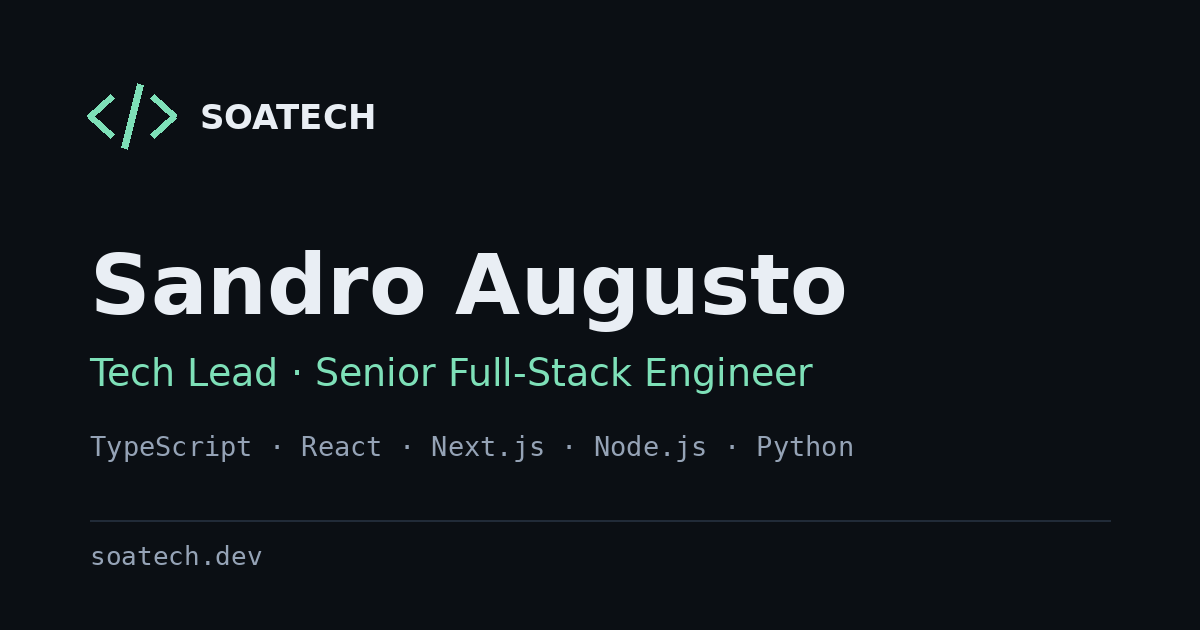
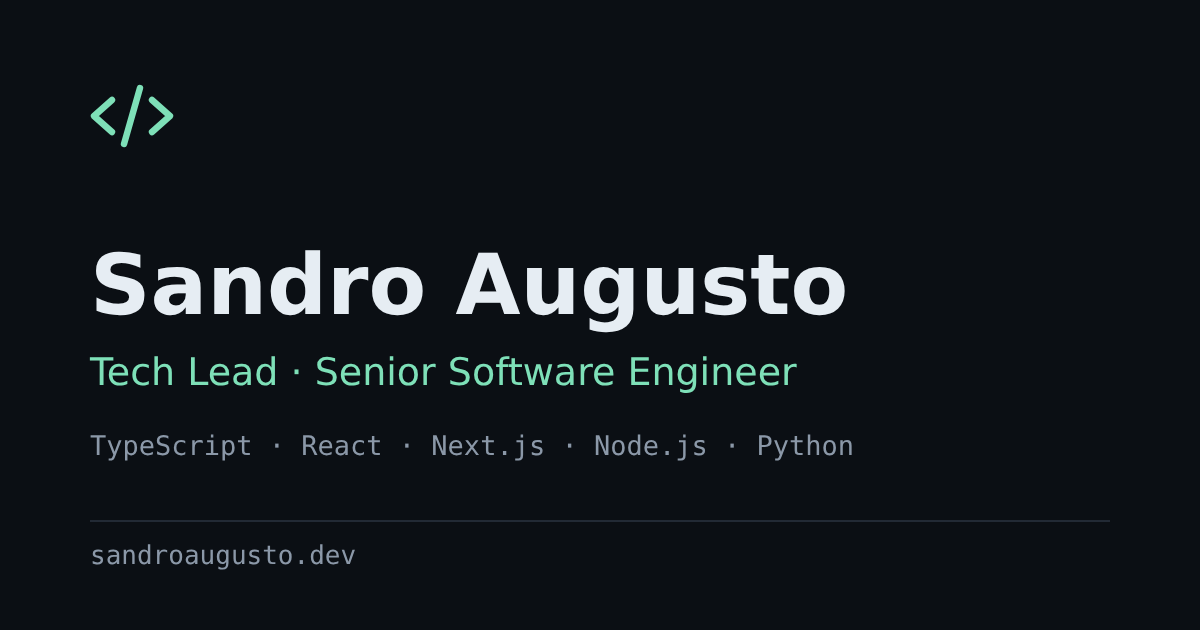
Move the site to sandroaugusto.dev
- SITE.url, canonical URLs, sitemap and Open Graph now use sandroaugusto.dev
- Header and footer show the person's name instead of the company brand;
  the legal name stays in the footer
- New share image without the company brand

Claude-Session: https://claude.ai/code/session_01RcgwB7pr3jrAkWv85aUV2o

diff --git a/src/components/ArticleShell.tsx b/src/components/ArticleShell.tsx
@@ -7,10 +7,10 @@ export function ArticleShell({ title, meta, children }: { title: string; meta: s
       <header className="site-header">
         <div className="wrap bar">
           <a className="brand" href="/">
-            {SITE.brand}
+            {SITE.person}
           </a>
           <a className="article-back" href="/#writing">
-            ← {SITE.person}
+            ← Writing
           </a>
         </div>
       </header>
@@ -25,7 +25,7 @@ export function ArticleShell({ title, meta, children }: { title: string; meta: s
       <footer className="site-footer">
         <div className="wrap footer-row">
           <span>
-            © {new Date().getFullYear()} {SITE.brand} · {SITE.legalName}
+            © {new Date().getFullYear()} {SITE.person} · {SITE.legalName}
           </span>
           <a href={SITE.repo} target="_blank" rel="noopener noreferrer">
             Source code

diff --git a/src/components/Site.tsx b/src/components/Site.tsx
@@ -68,9 +68,9 @@ export function Site({ locale }: { locale: Locale }) {
 
       <header className="site-header">
         <div className="wrap bar">
-          <a className="brand" href="#top" aria-label={SITE.brand}>
+          <a className="brand" href="#top" aria-label={SITE.person}>
             <Logo />
-            {SITE.brand}
+            {SITE.person}
           </a>
           <div className="bar-right">
             <nav>
@@ -198,7 +198,7 @@ export function Site({ locale }: { locale: Locale }) {
       <footer className="site-footer">
         <div className="wrap footer-row">
           <span>
-            © {new Date().getFullYear()} {SITE.brand} · {SITE.legalName}
+            © {new Date().getFullYear()} {SITE.person} · {SITE.legalName}
           </span>
           <a href={SITE.repo} target="_blank" rel="noopener noreferrer">
             {c.footer.source}

diff --git a/src/lib/metadata.ts b/src/lib/metadata.ts
@@ -17,11 +17,11 @@ export function buildMetadata(locale: Locale): Metadata {
     openGraph: {
       type: "website",
       url: PATHS[locale],
-      siteName: SITE.brand,
+      siteName: SITE.person,
       title: meta.title,
       description: meta.description,
       locale: OG_LOCALE[locale],
-      images: [{ url: "/og.png", width: 1200, height: 630, alt: `${SITE.person} — ${SITE.brand}` }],
+      images: [{ url: "/og.png", width: 1200, height: 630, alt: SITE.person }],
     },
     twitter: { card: "summary_large_image" },
     icons: { icon: "/icon.svg" },

diff --git a/src/app/(en)/writing/semantic-cache-false-hits/page.tsx b/src/app/(en)/writing/semantic-cache-false-hits/page.tsx
@@ -14,10 +14,10 @@ export const metadata: Metadata = {
   openGraph: {
     type: "article",
     url: article.path,
-    siteName: SITE.brand,
+    siteName: SITE.person,
     title: article.title,
     description: article.summary,
-    images: [{ url: "/og.png", width: 1200, height: 630, alt: `${SITE.person} — ${SITE.brand}` }],
+    images: [{ url: "/og.png", width: 1200, height: 630, alt: SITE.person }],
   },
   twitter: { card: "summary_large_image" },
 };

diff --git a/src/lib/site.ts b/src/lib/site.ts
@@ -1,5 +1,5 @@
 export const SITE = {
-  url: "https://soatech.dev",
+  url: "https://sandroaugusto.dev",
   brand: "SOATECH",
   legalName: "S.O.A Soluções Tecnológicas",
   person: "Sandro Augusto",

diff --git a/README.md b/README.md
@@ -1,6 +1,6 @@
-# soatech.dev
+# sandroaugusto.dev
 
-Personal site of Sandro Augusto (SOATECH). A statically exported Next.js app in English and Portuguese.
+Personal site of Sandro Augusto, at [sandroaugusto.dev](https://sandroaugusto.dev). A statically exported Next.js app in English and Portuguese.
 
 ## Stack
 
